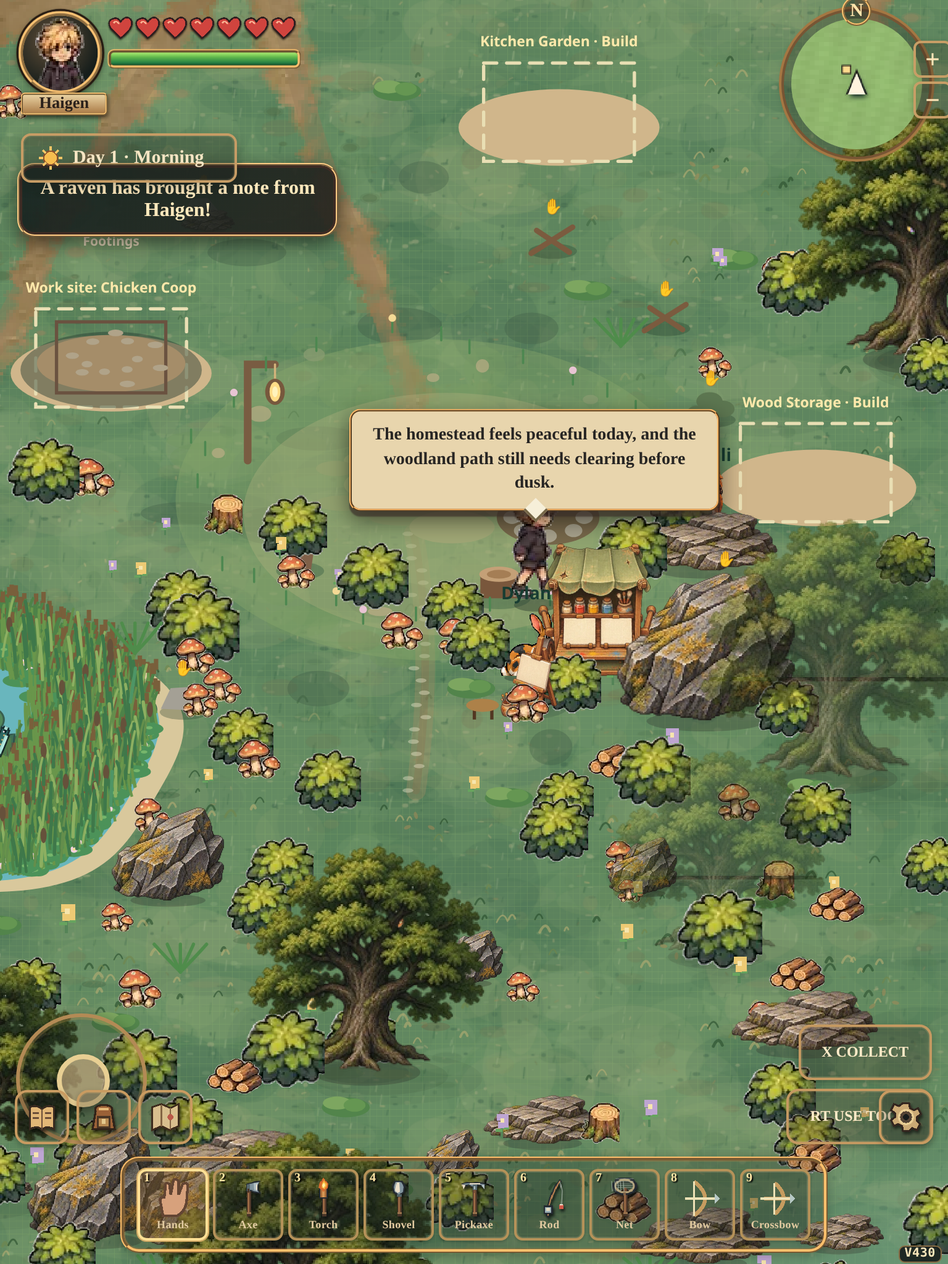
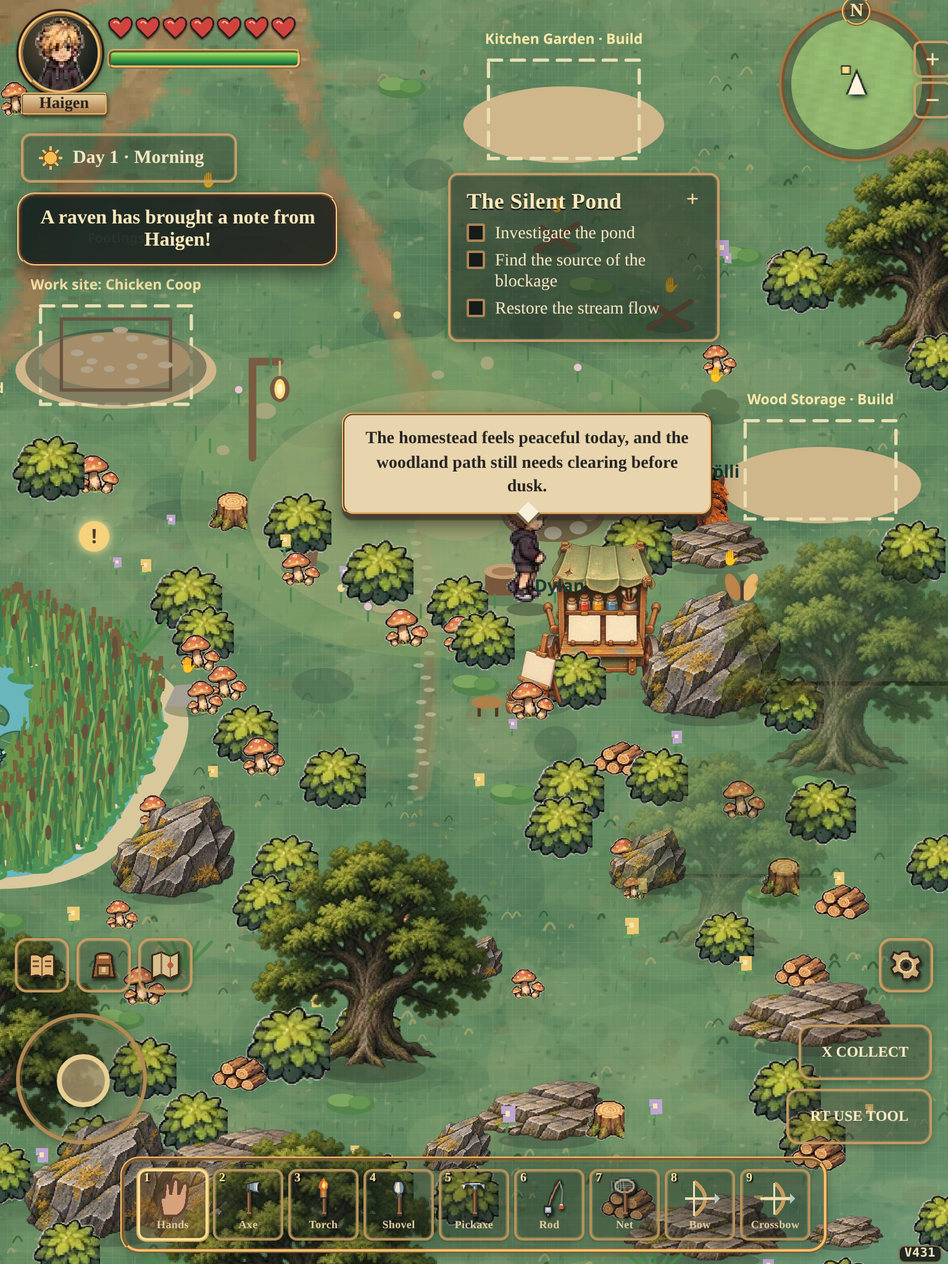
Job 232 correction: V431 Quiet Nordic HUD landscape + touch checks
Fix toast/day-chip and landscape toast/quest overlaps; lift tablet utilities above the joystick; extend live suite with iPad landscape and real CDP touch targets for joy/hotbar/pack/settings. Presentation-only; gameplay/art/controls/saves unchanged.

diff --git a/haigen.html b/haigen.html
@@ -1,4 +1,4 @@
-<!doctype html><html lang="en"><head><meta charset="utf-8"><meta name="viewport" content="width=device-width,initial-scale=1,maximum-scale=1,user-scalable=no,viewport-fit=cover"><meta name="theme-color" content="#183b32"><title>Haigen's World V430 · Woodland Paths</title><link rel="icon" href="data:,"><style>*{box-sizing:border-box}html,body{margin:0;width:100%;height:100%;overflow:hidden;overscroll-behavior:none;background:#122b25;font-family:system-ui,-apple-system,sans-serif;color:#f7f0db;touch-action:none}canvas{display:block;width:100%;height:100%;position:absolute;inset:0}.hud{z-index:5;position:absolute;top:env(safe-area-inset-top,8px);left:10px;right:10px;display:flex;align-items:flex-start;justify-content:space-between;pointer-events:none;gap:8px}.panel{background:#173b32e8;border:2px solid #bba66c;border-radius:15px;padding:9px 12px;box-shadow:0 4px 0 #081b17a0;pointer-events:auto}.title{font-weight:900;font-size:16px}.small{font-size:12px;color:#d5d3b4}.resources{font-size:13px;margin-top:4px}.right{display:flex;gap:6px;flex-wrap:wrap;justify-content:flex-end;pointer-events:auto;position:relative;z-index:2}.right .btn{pointer-events:auto}.btn{background:#e8d4a1;color:#263b2c;border:2px solid #fff2c5;border-radius:12px;font-weight:800;padding:9px 11px;box-shadow:0 3px 0 #8d7142;cursor:pointer;touch-action:manipulation}.btn:active{transform:translateY(2px)}.bottom{position:absolute;bottom:calc(env(safe-area-inset-bottom,0px) + 18px);left:14px;right:14px;display:flex;justify-content:space-between;align-items:flex-end;pointer-events:none}.joystick{width:128px;height:128px;border-radius:50%;background:#14392e9c;border:3px solid #e5d6a278;position:relative;pointer-events:auto;touch-action:none}.stick{position:absolute;left:39px;top:39px;width:44px;height:44px;border-radius:50%;background:#e8d4a1;border:4px solid #fff1cb;box-shadow:0 3px 8px #0007}.actions{display:flex;flex-direction:column;gap:9px;align-items:flex-end;pointer-events:auto}.action{border-radius:24px;padding:13px 17px;font-size:15px}.toast{position:absolute;top:115px;left:50%;transform:translateX(-50%);max-width:min(90vw,440px);padding:10px 15px;background:#132e28ed;border:2px solid #e5d6a2;border-radius:14px;text-align:center;font-weight:700;opacity:0;transition:opacity .2s;pointer-events:none}.toast.show{opacity:1}.overlay{position:absolute;inset:0;background:#071a16c9;display:none;align-items:center;justify-content:center;padding:18px;z-index:10;touch-action:pan-y}.overlay.open{display:flex}.modal{width:min(96vw,540px);max-height:84vh;overflow:auto;background:#24493d;border:3px solid #d9c18a;border-radius:20px;padding:18px;box-shadow:0 15px 50px #0008;touch-action:pan-y}.modal h2{margin:0 0 8px}.modal p{line-height:1.5}.item{display:flex;justify-content:space-between;align-items:center;gap:12px;border-bottom:1px solid #ffffff24;padding:10px 0}.item .btn{white-space:nowrap}.close{float:right}.hotbar{position:absolute;z-index:4;bottom:calc(env(safe-area-inset-bottom,0px) + 14px);left:50%;transform:translateX(-50%);display:flex;align-items:center;gap:6px;padding:6px;max-width:calc(100vw - 16px);overflow-x:auto;scrollbar-width:thin;overscroll-behavior-x:contain;border-radius:14px;background:#173b32e8;border:2px solid #bba66c;pointer-events:auto}.slot{min-width:52px;min-height:51px;border:2px solid #ad9e74;border-radius:10px;background:#e8d4a1;color:#263b2c;font-size:21px;touch-action:manipulation}.slot.selected{border:3px solid #fff;background:#c9f0b5;box-shadow:0 0 0 2px #f3c65b}.slot:disabled{opacity:.4}.slot small{display:block;font-size:9px}.update-banner{position:absolute;z-index:30;top:calc(env(safe-area-inset-top,0px) + 85px);left:50%;transform:translateX(-50%);width:min(92vw,420px);padding:12px;border:2px solid #f3d37b;border-radius:14px;background:#173b32;color:#fff5d8;text-align:center;box-shadow:0 8px 30px #0009;display:none;pointer-events:auto}.update-banner.show{display:block}.update-banner button{margin:6px 4px 0}.hint{position:absolute;bottom:calc(env(safe-area-inset-bottom,0px) + 4px);left:50%;transform:translateX(-50%);font-size:11px;color:#fff7d2b9;pointer-events:none;white-space:nowrap}@media(max-width:600px){.title{font-size:13px}.small{font-size:10px}.panel{padding:7px 9px}.resources{font-size:11px}.right .btn{font-size:12px;padding:7px}.joystick{width:110px;height:110px}.stick{left:32px;top:32px}.action{padding:11px 14px;font-size:13px}.toast{top:calc(env(safe-area-inset-top,0px) + 6px);max-width:min(68vw,300px);padding:5px 9px;font-size:11px;line-height:1.25;border-width:1px;border-radius:9px;z-index:9}}
+<!doctype html><html lang="en"><head><meta charset="utf-8"><meta name="viewport" content="width=device-width,initial-scale=1,maximum-scale=1,user-scalable=no,viewport-fit=cover"><meta name="theme-color" content="#183b32"><title>Haigen's World V431 · Woodland Paths</title><link rel="icon" href="data:,"><style>*{box-sizing:border-box}html,body{margin:0;width:100%;height:100%;overflow:hidden;overscroll-behavior:none;background:#122b25;font-family:system-ui,-apple-system,sans-serif;color:#f7f0db;touch-action:none}canvas{display:block;width:100%;height:100%;position:absolute;inset:0}.hud{z-index:5;position:absolute;top:env(safe-area-inset-top,8px);left:10px;right:10px;display:flex;align-items:flex-start;justify-content:space-between;pointer-events:none;gap:8px}.panel{background:#173b32e8;border:2px solid #bba66c;border-radius:15px;padding:9px 12px;box-shadow:0 4px 0 #081b17a0;pointer-events:auto}.title{font-weight:900;font-size:16px}.small{font-size:12px;color:#d5d3b4}.resources{font-size:13px;margin-top:4px}.right{display:flex;gap:6px;flex-wrap:wrap;justify-content:flex-end;pointer-events:auto;position:relative;z-index:2}.right .btn{pointer-events:auto}.btn{background:#e8d4a1;color:#263b2c;border:2px solid #fff2c5;border-radius:12px;font-weight:800;padding:9px 11px;box-shadow:0 3px 0 #8d7142;cursor:pointer;touch-action:manipulation}.btn:active{transform:translateY(2px)}.bottom{position:absolute;bottom:calc(env(safe-area-inset-bottom,0px) + 18px);left:14px;right:14px;display:flex;justify-content:space-between;align-items:flex-end;pointer-events:none}.joystick{width:128px;height:128px;border-radius:50%;background:#14392e9c;border:3px solid #e5d6a278;position:relative;pointer-events:auto;touch-action:none}.stick{position:absolute;left:39px;top:39px;width:44px;height:44px;border-radius:50%;background:#e8d4a1;border:4px solid #fff1cb;box-shadow:0 3px 8px #0007}.actions{display:flex;flex-direction:column;gap:9px;align-items:flex-end;pointer-events:auto}.action{border-radius:24px;padding:13px 17px;font-size:15px}.toast{position:absolute;top:115px;left:50%;transform:translateX(-50%);max-width:min(90vw,440px);padding:10px 15px;background:#132e28ed;border:2px solid #e5d6a2;border-radius:14px;text-align:center;font-weight:700;opacity:0;transition:opacity .2s;pointer-events:none}.toast.show{opacity:1}.overlay{position:absolute;inset:0;background:#071a16c9;display:none;align-items:center;justify-content:center;padding:18px;z-index:10;touch-action:pan-y}.overlay.open{display:flex}.modal{width:min(96vw,540px);max-height:84vh;overflow:auto;background:#24493d;border:3px solid #d9c18a;border-radius:20px;padding:18px;box-shadow:0 15px 50px #0008;touch-action:pan-y}.modal h2{margin:0 0 8px}.modal p{line-height:1.5}.item{display:flex;justify-content:space-between;align-items:center;gap:12px;border-bottom:1px solid #ffffff24;padding:10px 0}.item .btn{white-space:nowrap}.close{float:right}.hotbar{position:absolute;z-index:4;bottom:calc(env(safe-area-inset-bottom,0px) + 14px);left:50%;transform:translateX(-50%);display:flex;align-items:center;gap:6px;padding:6px;max-width:calc(100vw - 16px);overflow-x:auto;scrollbar-width:thin;overscroll-behavior-x:contain;border-radius:14px;background:#173b32e8;border:2px solid #bba66c;pointer-events:auto}.slot{min-width:52px;min-height:51px;border:2px solid #ad9e74;border-radius:10px;background:#e8d4a1;color:#263b2c;font-size:21px;touch-action:manipulation}.slot.selected{border:3px solid #fff;background:#c9f0b5;box-shadow:0 0 0 2px #f3c65b}.slot:disabled{opacity:.4}.slot small{display:block;font-size:9px}.update-banner{position:absolute;z-index:30;top:calc(env(safe-area-inset-top,0px) + 85px);left:50%;transform:translateX(-50%);width:min(92vw,420px);padding:12px;border:2px solid #f3d37b;border-radius:14px;background:#173b32;color:#fff5d8;text-align:center;box-shadow:0 8px 30px #0009;display:none;pointer-events:auto}.update-banner.show{display:block}.update-banner button{margin:6px 4px 0}.hint{position:absolute;bottom:calc(env(safe-area-inset-bottom,0px) + 4px);left:50%;transform:translateX(-50%);font-size:11px;color:#fff7d2b9;pointer-events:none;white-space:nowrap}@media(max-width:600px){.title{font-size:13px}.small{font-size:10px}.panel{padding:7px 9px}.resources{font-size:11px}.right .btn{font-size:12px;padding:7px}.joystick{width:110px;height:110px}.stick{left:32px;top:32px}.action{padding:11px 14px;font-size:13px}.toast{top:calc(env(safe-area-inset-top,0px) + 6px);max-width:min(68vw,300px);padding:5px 9px;font-size:11px;line-height:1.25;border-width:1px;border-radius:9px;z-index:9}}
 .mobile-menu,.stats-toggle{display:none}
 @media(max-width:600px),(pointer:coarse) and (max-height:600px){
  .hud{top:calc(env(safe-area-inset-top,0px) + 8px);right:84px}
@@ -80,7 +80,7 @@ body:has(#v127Settings.open) .haigen-speech{visibility:hidden!important}
  .haigen-speech{z-index:6;max-width:min(270px,calc(100vw - 28px))}
  .toast{z-index:8;top:calc(env(safe-area-inset-top,0px) + 118px);left:10px;right:auto;transform:none;max-width:min(58vw,230px);text-align:left}
 }
-.dev-version{position:fixed;right:8px;bottom:calc(env(safe-area-inset-bottom,0px) + 4px);z-index:7;pointer-events:none;color:#f5edddab;background:#142c2694;border:1px solid #dac89b35;border-radius:5px;padding:2px 5px;font:600 10px/1.3 ui-monospace,SFMono-Regular,monospace;letter-spacing:.03em}</style><link rel="stylesheet" href="./v127-ornate-ui.css?v=430"><style>#modalBody button.pad-choice{outline:3px solid #ffda74;outline-offset:-3px;background:#ffedb5;color:#23251b;box-shadow:inset 7px 0 #a56320}</style></head><body><canvas id="game"></canvas><div id="haigenSpeech" class="haigen-speech" aria-live="off" role="note"></div><div class="dev-version" id="devVersion" aria-label="Game build version">V430</div><div class="hud"><div class="panel"><div class="title">🌲 HAIGEN'S WORLD <span id="hudBuildBadge" style="color:#ffe7a3;font-size:12px">V430</span></div><div class="small" id="regionName">The Ancient Woodland</div><div class="small" id="day">Day 1 • Morning</div><div id="energyMeter" style="font-weight:700;color:#c3dcfa">💤 Energy 85/100</div><div id="hungerMeter" style="font-weight:700;color:#f3d18b">🍲 Hunger 85/100</div><div id="lifeMeter" role="progressbar" aria-label="Haigen health" aria-valuemin="0" aria-valuemax="100" aria-valuenow="100" style="margin:5px 0;font-size:12px;font-weight:bold">❤ Health 100/100<div style="height:10px;background:#432f2b;border:1px solid #e5cfaa;border-radius:8px;overflow:hidden"><div id="lifeFill" style="height:100%;width:100%;background:#73c977;transition:width .2s"></div></div></div><div class="small" id="padDebug" style="background:#102e28;border-radius:6px;padding:4px;margin-top:4px">🎮 Checking controller…</div><div class="resources" id="resources">🪵 0 &nbsp; 🪨 0 &nbsp; 🍓 0</div><div class="small" id="campQuestHud" style="margin-top:5px;color:#f7dca5"></div><div class="small" id="homesteadHud" style="margin-top:4px;color:#d2e9c6"></div></div><div class="right"><button class="btn" id="modeBtn">🤖 Let Haigen play</button><button class="btn" id="packBtn">🎒 Backpack</button><button class="btn" id="storyBtn">📜 Story</button><button class="btn" id="mapBtn">🗺 Map</button><button class="btn" id="journalBtn">📖 Journal</button><button class="btn" id="craftBtn">🔨 Build</button><button class="btn" id="artBtn">🎨 Classic look</button><button class="btn" id="helpBtn">❔</button></div></div><button class="btn" id="devKitBtn" type="button" aria-label="Open developer weapons and inventory" style="position:fixed;top:calc(env(safe-area-inset-top,0px) + 177px);right:calc(env(safe-area-inset-right,0px) + 12px);z-index:29;padding:8px 12px;background:linear-gradient(160deg,#614b36,#1b2523);color:#ffecbb;border:2px ridge #e2b56e;border-radius:9px;box-shadow:0 3px 14px #000a;font:700 12px Georgia,serif;letter-spacing:.04em">🧰 DEV KIT</button><button class="btn" id="regionsQuickBtn" style="position:absolute;top:calc(env(safe-area-inset-top, 8px) + 64px);right:12px;z-index:8;font-size:13px;box-shadow:0 3px 10px #0006">🌍 Explore World</button><div class="toast" id="toast"></div><div class="update-banner" id="updateBanner"><b>🌲 A new Haigen’s World update is ready!</b><div class="small">Your adventure will be saved before refreshing.</div><button class="btn" id="applyUpdateBtn">✨ Update now</button><button class="btn" id="laterUpdateBtn">Later</button></div><div class="bottom"><div class="joystick" id="joy"><div class="stick" id="stick"></div></div><div class="actions"><button class="btn action" id="autoTouchBtn" style="background:#c9f0b5;min-width:155px;min-height:55px">🤖 Let Haigen play</button><button class="btn action" id="eatBtn">🍲 Eat</button><button class="btn action" id="healBtn">🌿 Heal</button><button class="btn action" id="restBtn">💤 Rest</button><button class="btn action" id="styleBtn">💇 Hair</button><button class="btn action" id="mailBtn">🧠 Haigen’s Notes</button><button class="btn action" id="cookBtn">🔥 Cook & mix</button><button class="btn action" id="interactBtn">✋ X Collect</button><button class="btn action" id="useBtn">🪓 RT Use tool</button><button class="btn action" id="callBtn">🦊 Call friends</button></div></div><div class="hotbar" id="hotbar" aria-label="Equipped tools"><button class="slot selected" data-equip="hands">✋<small>Hands</small></button><button class="slot" disabled data-equip="axe">🪓<small>Axe</small></button><button class="slot" disabled data-equip="torch">🔦<small>Torch</small></button></div><div class="hint">Move with joystick / Xbox controller / WASD • X collect • RT use tool • LB/RB equip • Start map • View mark / hold for playtest • D-pad select • A confirm • B back • Right stick look • Autosaves</div><div class="overlay" id="overlay"><div class="modal"><button class="btn close" id="closeBtn">✕</button><div id="modalBody"></div></div></div><div id="worldError" role="alert" style="display:none;position:fixed;z-index:50;top:46%;left:8%;right:8%;border:2px solid #f9bd78;border-radius:14px;background:#382b2bf0;color:#fff0d5;padding:15px;font:600 14px system-ui;text-align:center;overflow-wrap:anywhere"></div><script>
+.dev-version{position:fixed;right:8px;bottom:calc(env(safe-area-inset-bottom,0px) + 4px);z-index:7;pointer-events:none;color:#f5edddab;background:#142c2694;border:1px solid #dac89b35;border-radius:5px;padding:2px 5px;font:600 10px/1.3 ui-monospace,SFMono-Regular,monospace;letter-spacing:.03em}</style><link rel="stylesheet" href="./v127-ornate-ui.css?v=431"><style>#modalBody button.pad-choice{outline:3px solid #ffda74;outline-offset:-3px;background:#ffedb5;color:#23251b;box-shadow:inset 7px 0 #a56320}</style></head><body><canvas id="game"></canvas><div id="haigenSpeech" class="haigen-speech" aria-live="off" role="note"></div><div class="dev-version" id="devVersion" aria-label="Game build version">V431</div><div class="hud"><div class="panel"><div class="title">🌲 HAIGEN'S WORLD <span id="hudBuildBadge" style="color:#ffe7a3;font-size:12px">V431</span></div><div class="small" id="regionName">The Ancient Woodland</div><div class="small" id="day">Day 1 • Morning</div><div id="energyMeter" style="font-weight:700;color:#c3dcfa">💤 Energy 85/100</div><div id="hungerMeter" style="font-weight:700;color:#f3d18b">🍲 Hunger 85/100</div><div id="lifeMeter" role="progressbar" aria-label="Haigen health" aria-valuemin="0" aria-valuemax="100" aria-valuenow="100" style="margin:5px 0;font-size:12px;font-weight:bold">❤ Health 100/100<div style="height:10px;background:#432f2b;border:1px solid #e5cfaa;border-radius:8px;overflow:hidden"><div id="lifeFill" style="height:100%;width:100%;background:#73c977;transition:width .2s"></div></div></div><div class="small" id="padDebug" style="background:#102e28;border-radius:6px;padding:4px;margin-top:4px">🎮 Checking controller…</div><div class="resources" id="resources">🪵 0 &nbsp; 🪨 0 &nbsp; 🍓 0</div><div class="small" id="campQuestHud" style="margin-top:5px;color:#f7dca5"></div><div class="small" id="homesteadHud" style="margin-top:4px;color:#d2e9c6"></div></div><div class="right"><button class="btn" id="modeBtn">🤖 Let Haigen play</button><button class="btn" id="packBtn">🎒 Backpack</button><button class="btn" id="storyBtn">📜 Story</button><button class="btn" id="mapBtn">🗺 Map</button><button class="btn" id="journalBtn">📖 Journal</button><button class="btn" id="craftBtn">🔨 Build</button><button class="btn" id="artBtn">🎨 Classic look</button><button class="btn" id="helpBtn">❔</button></div></div><button class="btn" id="devKitBtn" type="button" aria-label="Open developer weapons and inventory" style="position:fixed;top:calc(env(safe-area-inset-top,0px) + 177px);right:calc(env(safe-area-inset-right,0px) + 12px);z-index:29;padding:8px 12px;background:linear-gradient(160deg,#614b36,#1b2523);color:#ffecbb;border:2px ridge #e2b56e;border-radius:9px;box-shadow:0 3px 14px #000a;font:700 12px Georgia,serif;letter-spacing:.04em">🧰 DEV KIT</button><button class="btn" id="regionsQuickBtn" style="position:absolute;top:calc(env(safe-area-inset-top, 8px) + 64px);right:12px;z-index:8;font-size:13px;box-shadow:0 3px 10px #0006">🌍 Explore World</button><div class="toast" id="toast"></div><div class="update-banner" id="updateBanner"><b>🌲 A new Haigen’s World update is ready!</b><div class="small">Your adventure will be saved before refreshing.</div><button class="btn" id="applyUpdateBtn">✨ Update now</button><button class="btn" id="laterUpdateBtn">Later</button></div><div class="bottom"><div class="joystick" id="joy"><div class="stick" id="stick"></div></div><div class="actions"><button class="btn action" id="autoTouchBtn" style="background:#c9f0b5;min-width:155px;min-height:55px">🤖 Let Haigen play</button><button class="btn action" id="eatBtn">🍲 Eat</button><button class="btn action" id="healBtn">🌿 Heal</button><button class="btn action" id="restBtn">💤 Rest</button><button class="btn action" id="styleBtn">💇 Hair</button><button class="btn action" id="mailBtn">🧠 Haigen’s Notes</button><button class="btn action" id="cookBtn">🔥 Cook & mix</button><button class="btn action" id="interactBtn">✋ X Collect</button><button class="btn action" id="useBtn">🪓 RT Use tool</button><button class="btn action" id="callBtn">🦊 Call friends</button></div></div><div class="hotbar" id="hotbar" aria-label="Equipped tools"><button class="slot selected" data-equip="hands">✋<small>Hands</small></button><button class="slot" disabled data-equip="axe">🪓<small>Axe</small></button><button class="slot" disabled data-equip="torch">🔦<small>Torch</small></button></div><div class="hint">Move with joystick / Xbox controller / WASD • X collect • RT use tool • LB/RB equip • Start map • View mark / hold for playtest • D-pad select • A confirm • B back • Right stick look • Autosaves</div><div class="overlay" id="overlay"><div class="modal"><button class="btn close" id="closeBtn">✕</button><div id="modalBody"></div></div></div><div id="worldError" role="alert" style="display:none;position:fixed;z-index:50;top:46%;left:8%;right:8%;border:2px solid #f9bd78;border-radius:14px;background:#382b2bf0;color:#fff0d5;padding:15px;font:600 14px system-ui;text-align:center;overflow-wrap:anywhere"></div><script>
 (function(){
   window.__haigenWorldReady=false;
   function showStartupError(message){
@@ -12678,7 +12678,7 @@ window.__haigenArtAudit=()=>({
 });
 window.__haigenAssetReport=()=>{const x=window.__haigenArtAudit();x.missing=Object.entries(x.approved).filter(([,ok])=>!ok).map(([name])=>name);return x};
  // M1 foundations: every on-screen version/identity surface reads GAME_BUILD.
- const GAME_BUILD=430;
+ const GAME_BUILD=431;
  const buildLabel='V'+GAME_BUILD;
  const buildBadge=document.getElementById('devVersion');
  buildBadge.textContent=buildLabel;
@@ -12957,4 +12957,4 @@ function refreshFrogHud(){
 }
 setInterval(refreshFrogHud,300);refreshFrogHud();
  placeArtCart();restoreTrollPosition();try{const moved=JSON.parse((worldLayoutEditingPaused?null:localStorage.getItem(hwRealKey))||'{}')['named:troll-stump'];if(moved&&Number.isFinite(moved.x)&&Number.isFinite(moved.y)&&moved.x>=0&&moved.y>=0&&moved.x<=5000&&moved.y<=5000){trollStumpHome.x=moved.x;trollStumpHome.y=moved.y}}catch(e){}stumpPositionReady=true;requestAnimationFrame(frame);if(state.returnReport.length)setTimeout(showReturnReport,350);setTimeout(()=>notify(!state.campClearingDone?'🏕 First task: clear 7 brush piles at camp with X Collect.':state.story.oldStreamQuestRetired?'🌲 Welcome back! Explore the Great Lake and the woodland trails.':state.story.stage===0?'🌲 Welcome! Explore the forest and listen for something strange near the pond.':'🌲 Welcome back! 📜 The Silent Pond quest awaits.'),700)})();
-</script><script src="./swamp-bosses-v420.js?v=425"></script><script src="./v127-ornate-ui.js?v=430"></script><script src="./gloamjaw-v128.js?v=137"></script><script src="./gloamjaw-vfx-v136.js?v=136"></script><!-- Tactical Gloamjaw adapter retired: original real-time boss remains active. --><script src="./thrummaw-v148.js?v=410"></script><script src="./krakkle-v407.js?v=417"></script></body></html>
+</script><script src="./swamp-bosses-v420.js?v=425"></script><script src="./v127-ornate-ui.js?v=431"></script><script src="./gloamjaw-v128.js?v=137"></script><script src="./gloamjaw-vfx-v136.js?v=136"></script><!-- Tactical Gloamjaw adapter retired: original real-time boss remains active. --><script src="./thrummaw-v148.js?v=410"></script><script src="./krakkle-v407.js?v=417"></script></body></html>

diff --git a/v127-ornate-ui.css b/v127-ornate-ui.css
@@ -339,16 +339,17 @@ body.v127-rpg #v127Root .v127-quest[data-collapsed="true"] h3{
  margin:1px 24px 1px 0;font-size:13px;line-height:1.2;
 }
 @media (min-width:601px) and (max-width:1100px){
+ /* Job 232 correction: keep pack/map/journal and gear clear above the joystick. */
  body.v127-rpg .v127-utilities{
-  left:12px;bottom:calc(env(safe-area-inset-bottom,0px) + 97px);gap:6px;
+  left:12px;bottom:calc(env(safe-area-inset-bottom,0px) + 220px);gap:6px;
  }
  body.v127-rpg .v127-utility{width:44px;height:44px;padding:7px}
  body.v127-rpg .v127-gear{
-  right:12px;bottom:calc(env(safe-area-inset-bottom,0px) + 97px);
+  right:12px;bottom:calc(env(safe-area-inset-bottom,0px) + 220px);
   width:44px;height:44px;padding:7px;
  }
  body.v127-rpg .v127-settings{
-  right:12px;bottom:calc(env(safe-area-inset-bottom,0px) + 150px);
+  right:12px;bottom:calc(env(safe-area-inset-bottom,0px) + 274px);
   max-height:min(65dvh,460px);
  }
 }
@@ -447,11 +448,12 @@ body.v127-rpg #v127Root .v127-quest[data-collapsed="true"]{
  body.v127-rpg .haigen-speech{max-width:min(260px,42vw)}
 }
 
-/* Job 232: Quiet Nordic HUD — portrait lanes for toast / quest / minimap / speech.
-   Presentation-only; controls, art, gameplay and saves unchanged. */
+/* Job 232: Quiet Nordic HUD — toast / quest / minimap / speech lanes.
+   Presentation-only; controls, art, gameplay and saves unchanged.
+   Correction: clear day-chip vs toast, and iPad landscape toast vs quest. */
 @media(max-width:600px){
  body.v127-rpg .toast{
-  top:calc(env(safe-area-inset-top,0px) + 104px);
+  top:calc(env(safe-area-inset-top,0px) + 112px);
   left:8px;right:auto;transform:none;
   max-width:min(188px,46vw);
   z-index:9;text-align:left;font-size:12px;line-height:1.25;
@@ -478,12 +480,36 @@ body.v127-rpg #v127Root .v127-quest[data-collapsed="true"]{
 }
 @media(min-width:601px) and (max-width:900px) and (orientation:portrait){
  body.v127-rpg .toast{
-  top:calc(env(safe-area-inset-top,0px) + 132px);
+  top:calc(env(safe-area-inset-top,0px) + 156px);
   left:14px;right:auto;transform:none;
   max-width:min(260px,34vw);
  }
  body.v127-rpg #v127Root .v127-quest{
   top:calc(env(safe-area-inset-top,0px) + 140px);
   max-height:min(24dvh,220px);
+ }
+}
+/* iPad / wide landscape: keep toast on the left rail; park quest under minimap. */
+@media(min-width:601px) and (orientation:landscape){
+ body.v127-rpg .toast{
+  top:calc(env(safe-area-inset-top,0px) + 156px);
+  left:14px;right:auto;transform:none;
+  max-width:min(280px,30vw);text-align:left;
+ }
+ body.v127-rpg #v127Root .v127-quest{
+  top:calc(env(safe-area-inset-top,0px) + 150px);
+  right:14px;width:min(240px,24vw);min-width:0;
+  max-height:min(36dvh,250px);z-index:10;
+ }
+ body.v127-rpg .v127-mini{z-index:11}
+ body.v127-rpg .haigen-speech{max-width:min(280px,34vw)}
+ body.v127-rpg .v127-utilities{
+  bottom:calc(env(safe-area-inset-bottom,0px) + 230px);
+ }
+ body.v127-rpg .v127-gear{
+  bottom:calc(env(safe-area-inset-bottom,0px) + 230px);
+ }
+ body.v127-rpg .v127-settings{
+  bottom:calc(env(safe-area-inset-bottom,0px) + 284px);
  }
 }

diff --git a/docs/quiet-nordic-hud-232/README.md b/docs/quiet-nordic-hud-232/README.md
@@ -1,14 +1,14 @@
 # Quiet Nordic HUD (Job 232)
 
-Presentation-only portrait stacking pass on V429 → **V430**. Reuses V426 ornate mobile presentation; does not rewrite the HUD.
+Presentation-only stacking pass on V429 → **V431** (correction on PR #234). Reuses V426 ornate mobile presentation; does not rewrite the HUD.
 
 ## Problem
-On iPhone 390×844, toast / speech / quest / minimap could share the same vertical band and crowd the hero during long guidance or raven notes.
+On portrait iPhone, toast / speech / quest / minimap could share the same vertical band. Independent review also found the first V430 suite skipped iPad landscape and only checked control existence, not real touch reachability. Landscape toast could overlap the quest panel; toast could clip the day chip.
 
 ## Bounded fix
-1. **CSS lanes** (`v127-ornate-ui.css`): left toast rail under the day chip; minimap top-right; quest under the minimap with capped width/height.
+1. **CSS lanes** (`v127-ornate-ui.css`): left toast rail below the day chip; minimap top-right; quest under the minimap; dedicated iPad landscape lanes.
 2. **Speech dodge** (`updateHaigenSpeech` in `haigen.html`): treat live toast, quest panel, and minimap as obstacles; shift the character-anchored bubble to free candidates. `haigen-toast-live` raises the top safe band while a toast is showing.
-3. Modal/menu suppression and control hit targets unchanged.
+3. Modal/menu suppression unchanged. Live suite now covers iPhone, iPad portrait, iPad landscape, long text, and real taps for joystick / hotbar / pack / settings.
 
 ## Evidence (isolated QA; never touches real saves)
 | Shot | File |
@@ -19,6 +19,7 @@ On iPhone 390×844, toast / speech / quest / minimap could share the same vertic
 | After iPhone + quest | `after/iphone-overlap-with-quest.png` |
 | After iPhone long text | `after/iphone-long-text.png` |
 | After iPad portrait | `after/ipad-portrait-overlap.png` |
+| After iPad landscape | `after/ipad-landscape-overlap.png` |
 
 ## Preserve
 Gameplay, AI, art atlases, camera/world coordinates, collision, boats, audio, controls, `wandererV127PreviewSave`, mobile performance.
